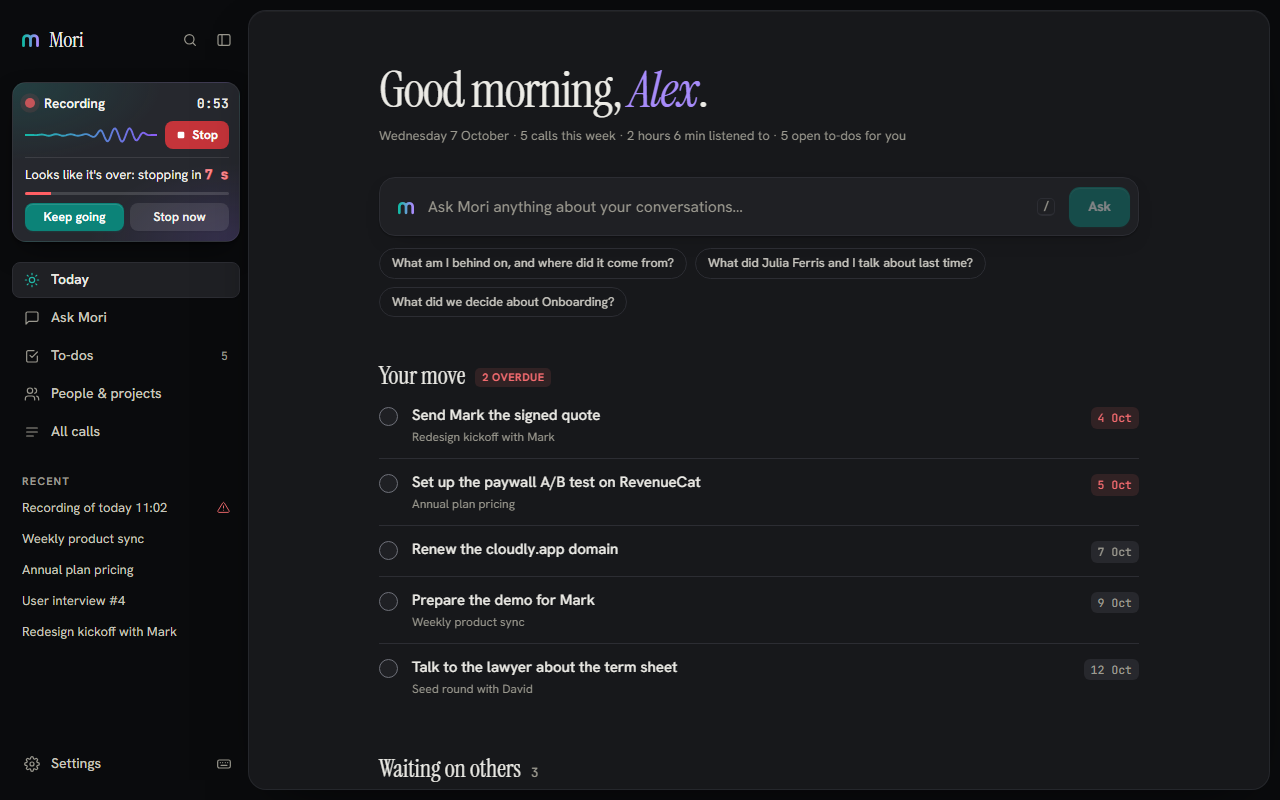
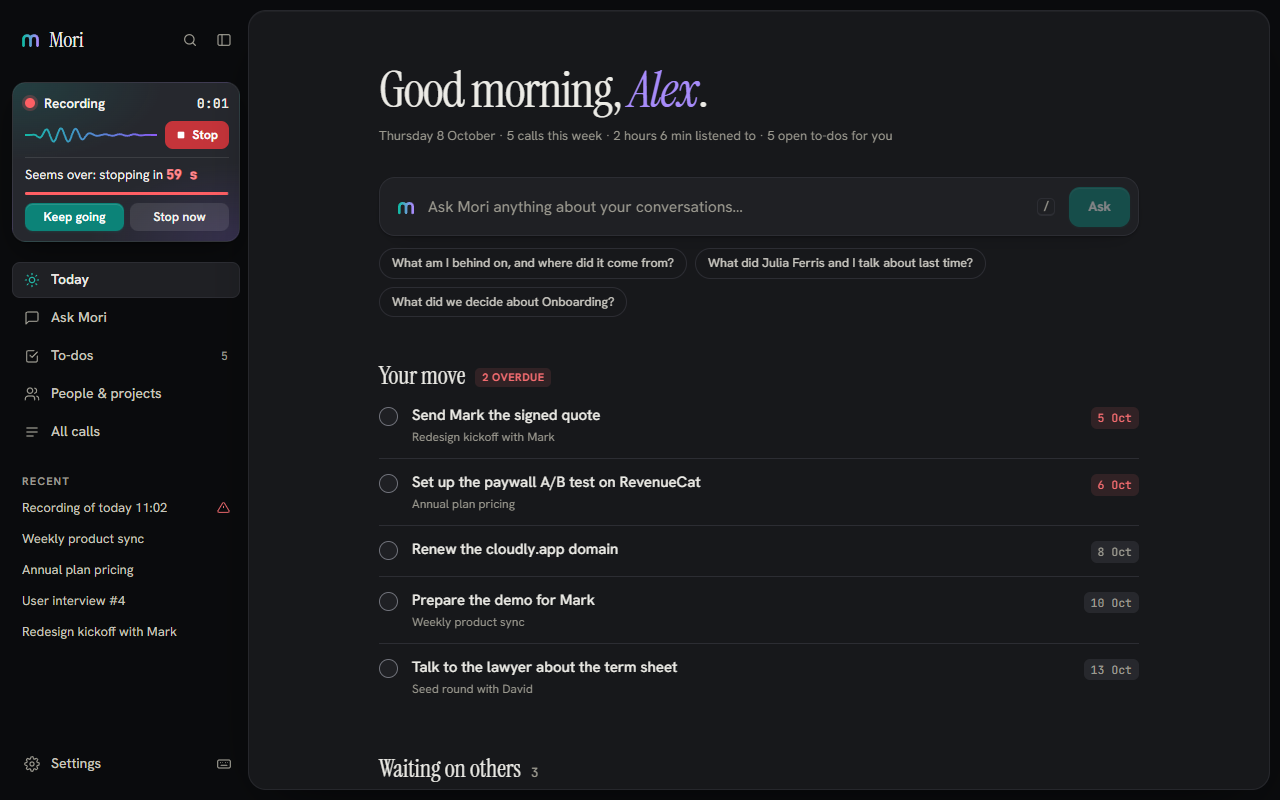
fix: the owner of a to-do reads "You" in English, and the docs say what CI proved on a Mac
The stored owner stays "Tu"; every place that shows it (a call's To-dos tab,
Today, the To-dos page and its edit field, the Markdown export) goes through
the same translation as speaker names. Typing "You" stores "Tu", names typed
by hand are left alone. checks.mjs fails when a view prints an owner raw.

README and docs/MACOS.md: macOS is proven on GitHub's cloud Mac (macOS 26,
Apple Silicon), from source and in the packaged app. The recording
screenshot is retaken from the preview bench with today's wording.

Changed region(s): [[0.2812, 0.1562, 0.7188, 0.1875], [0.0312, 0.1562, 0.1875, 0.25], [0.0, 0.125, 0.0312, 0.1562]]

diff --git a/app/src/views/TodosView.tsx b/app/src/views/TodosView.tsx
@@ -17,6 +17,7 @@ import type { OfferUndo } from "../ui/useUndo";
 import { isTyping, moveFocus } from "../ui/keys";
 import { dueLabel } from "../ui/format";
 import { t } from "../i18n";
+import { assigneeLabel, assigneeStored } from "../speakers-logic";
 import { useTabInk } from "../ui/useTabInk";
 import { IconCalendar, IconChevron, IconFile, IconPencil, IconPlus, IconSearch, IconTrash } from "../ui/icons";
 import "./TodosView.css";
@@ -109,6 +110,7 @@ export default function TodosView({
       return (
         t.text.toLowerCase().includes(q) ||
         (t.assignee ?? "").toLowerCase().includes(q) ||
+        assigneeLabel(t.assignee ?? "").toLowerCase().includes(q) ||
         t.source.title.toLowerCase().includes(q)
       );
     });
@@ -326,10 +328,10 @@ export default function TodosView({
                 autoFocus
                 aria-label={t("Di chi è")}
                 placeholder={t("di chi è")}
-                defaultValue={td.assignee ?? ""}
-                onBlur={(e) => patch(td, { assignee: e.target.value })}
+                defaultValue={td.assignee ? assigneeLabel(td.assignee) : ""}
+                onBlur={(e) => patch(td, { assignee: assigneeStored(e.target.value) })}
                 onKeyDown={(e) => {
-                  if (e.key === "Enter") patch(td, { assignee: (e.target as HTMLInputElement).value });
+                  if (e.key === "Enter") patch(td, { assignee: assigneeStored((e.target as HTMLInputElement).value) });
                   if (e.key === "Escape") {
                     e.stopPropagation();
                     setEditing(null);
@@ -343,7 +345,7 @@ export default function TodosView({
                 title={t("Clicca per cambiare a chi tocca")}
                 onClick={() => setEditing({ id: td.id, field: "who" })}
               >
-                {td.assignee ?? t("di chi?")}
+                {td.assignee ? assigneeLabel(td.assignee) : t("di chi?")}
               </button>
             )}
           </div>

diff --git a/app/src/views/call/CallView.tsx b/app/src/views/call/CallView.tsx
@@ -6,7 +6,7 @@ import type { ActionItem, Category, CategoryCount } from "../../db";
 import type { SessionJob } from "../../jobs";
 import { jobLabel, isWaitingNotice, noticeText, retrySession } from "../../jobs";
 import type { Entity } from "../people";
-import { applySpeakerMap, otherLabelsIn, relabelText, speakerLabel } from "../../speakers-logic";
+import { applySpeakerMap, assigneeLabel, otherLabelsIn, relabelText, speakerLabel } from "../../speakers-logic";
 import Markdown from "../../ui/Markdown";
 import Dragon from "../../ui/Mark";
 import Menu from "../../ui/Menu";
@@ -278,7 +278,7 @@ export default function CallView({
                       {i > 0 && ", "}
                       <button
                         className="person-link"
-                        title={t("Apri la scheda di {name}", { name: p.display_name })}
+                        title={t("Apri la scheda di {name}", { name: speakerLabel(p.display_name) })}
                         onClick={() => onOpenPersonByName(p.display_name)}
                       >
                         {speakerLabel(p.display_name)}
@@ -515,7 +515,7 @@ export default function CallView({
                             <svg width="12" height="12" viewBox="0 0 24 24" fill="none" stroke="currentColor" strokeWidth="3" strokeLinecap="round" strokeLinejoin="round" aria-hidden="true"><path d="M20 6 9 17l-5-5" /></svg>
                           </button>
                           <span className="action-text">{a.text}</span>
-                          {a.assignee && <span className="who-chip">{a.assignee}</span>}
+                          {a.assignee && <span className="who-chip">{assigneeLabel(a.assignee)}</span>}
                         </li>
                       ))}
                     </ul>

diff --git a/app/src/export-logic.ts b/app/src/export-logic.ts
@@ -2,6 +2,7 @@
 // as a human-readable copy outside Mori (DECISIONS.md, decision 3: export as the
 // anti lock-in backup). Pure: the DB reads live in followup.ts.
 import { locale, t } from "./i18n";
+import { assigneeLabel, speakerLabel } from "./speakers-logic";
 
 export type ExportCall = {
   title: string;
@@ -35,7 +36,7 @@ export function callToMarkdown(c: ExportCall): string {
   const meta: string[] = [];
   const day = fmtDay(c.startedAt);
   if (day) meta.push(day);
-  if (c.participants.length) meta.push(c.participants.join(", "));
+  if (c.participants.length) meta.push(c.participants.map(speakerLabel).join(", "));
   if (c.categories.length) meta.push(c.categories.map((x) => `#${x.replace(/\s+/g, "-")}`).join(" "));
   if (meta.length) out.push(`_${meta.join(" · ")}_`);
   if (c.private) out.push("> " + t("Call privata: letta solo da un modello locale."));
@@ -50,7 +51,7 @@ export function callToMarkdown(c: ExportCall): string {
   if (c.actions.length) {
     out.push("", "## " + t("Da fare"));
     for (const a of c.actions) {
-      const who = a.assignee ? ` — ${a.assignee}` : "";
+      const who = a.assignee ? ` — ${assigneeLabel(a.assignee)}` : "";
       const due = a.due ? ` (${t("entro {due}", { due: a.due })})` : "";
       out.push(`- [${a.done ? "x" : " "}] ${a.text}${who}${due}`);
     }

diff --git a/app/src/speakers-logic.ts b/app/src/speakers-logic.ts
@@ -50,6 +50,33 @@ export function speakerLabel(label: string): string {
   return label;
 }
 
+/** Who a to-do belongs to, as shown on screen. The stored value keeps the
+ *  recorder's "Tu" for the user; a list ("Tu, Sarah") is translated part by
+ *  part, and every name a person typed stays as it is. */
+export function assigneeLabel(assignee: string): string {
+  return assignee
+    .split(/([,/&])/)
+    .map((part) => {
+      const name = part.trim();
+      return name === "Tu" || name === "Interlocutore" ? part.replace(name, speakerLabel(name)) : part;
+    })
+    .join("");
+}
+
+/** The other way round, for what a person types in the "whose is it" field:
+ *  the word the interface shows for the user ("You") is stored as "Tu", so the
+ *  to-do stays theirs. Anything else is stored as typed. */
+export function assigneeStored(typed: string): string {
+  const me = t("Tu").toLowerCase();
+  return typed
+    .split(/([,/&])/)
+    .map((part) => {
+      const name = part.trim();
+      return name && name.toLowerCase() === me ? part.replace(name, "Tu") : part;
+    })
+    .join("");
+}
+
 export function speakerName(label: string, map: SpeakerMap): string {
   return map[label] ?? label;
 }

diff --git a/app/src/views/HomeView.tsx b/app/src/views/HomeView.tsx
@@ -15,6 +15,7 @@ import { isAutoTitle } from "../recording-logic";
 import { setTodoStatus, type Todo } from "./todos";
 import { DEFAULT_MY_NAMES } from "./todo-logic";
 import { t, tn } from "../i18n";
+import { assigneeLabel } from "../speakers-logic";
 import QuickKey from "./QuickKey";
 import type { ProviderConfig } from "../llm";
 
@@ -334,7 +335,7 @@ export default function HomeView({
                     const b = bucketOf(td.due);
                     return (
                       <li key={td.id} className="hl-row">
-                        <span className="hl-who">{(td.assignee ?? "").split(/[,/&]/)[0].trim()}</span>
+                        <span className="hl-who">{assigneeLabel((td.assignee ?? "").split(/[,/&]/)[0].trim())}</span>
                         <div className="hl-main">
                           <span className="hl-text">{td.text}</span>
                           {td.source.sessionId && (

diff --git a/app/src/App.tsx b/app/src/App.tsx
@@ -103,13 +103,8 @@ import ReadyToast, { type Ready } from "./views/ReadyToast";
 import { useRecorder } from "./views/recording/useRecorder";
 import { t, tn } from "./i18n";
 import { ensureSetup } from "./setup";
+import { speakerLabel } from "./speakers-logic";
 
-/** A recorder label as shown: the stored value stays Italian, the text follows the language. */
-function speakerLabel(label: string): string {
-  if (label === "Interlocutore") return t("Interlocutore");
-  if (label === "Tu") return t("Tu");
-  return label;
-}
 
 export default function App() {
   const [sessions, setSessions] = useState<Session[]>([]);

diff --git a/README.md b/README.md
@@ -30,7 +30,7 @@
 |---|---|
 | ![Ask Mori](docs/screenshots/ask-mori.png) | ![A call, its transcript with the two voices](docs/screenshots/call.png) |
 | ![A private call](docs/screenshots/private-call.png) | ![Settings, as a page](docs/screenshots/settings.png) |
-| ![Recording, and "it seems over": stop in 7 s](docs/screenshots/recording-dark.png) | ![⌘K finds what was said](docs/screenshots/cmdk-dark.png) |
+| ![Recording, and "Seems over": it stops by itself unless you keep going](docs/screenshots/recording-dark.png) | ![⌘K finds what was said](docs/screenshots/cmdk-dark.png) |
 
 <sub>Screenshots use invented data from the preview bench (`app/preview/fixtures.ts`). The design rules: [`docs/DESIGN.md`](docs/DESIGN.md).</sub>
 
@@ -39,7 +39,7 @@
 | Platform | Status |
 |---|---|
 | **Windows** | Works today. This is where Mori is used every day. |
-| **macOS** | In progress (Apple Silicon, macOS 14.2+). CI builds a `.dmg`, opens the app from it, and it records both sides of a played call; nobody has run it on a real Mac yet. The plan and where to help: [`docs/MACOS.md`](docs/MACOS.md). |
+| **macOS** | In progress (Apple Silicon, macOS 14.2+). Proven on GitHub's cloud Mac (macOS 26, Apple Silicon), from source and in the packaged app: CI builds a `.dmg`, opens the app from it, the app prepares its own Python, records both sides of a played call and transcribes it. Still to come: someone using it on a Mac on their desk. The plan and where to help: [`docs/MACOS.md`](docs/MACOS.md). |
 | Linux | The app builds and the checks run in CI. Untested beyond that. |
 
 ## Install
@@ -80,7 +80,7 @@ The model is any OpenAI‑compatible endpoint: Groq (free tier, no training on y
 
 ## Getting started (development)
 
-Prerequisites: Node 22, pnpm 10, Rust (stable), Python 3.11+. Mori targets **Windows** (system audio is captured through WASAPI loopback). The backend also builds on macOS and Linux; capturing the other side of a call there needs a loopback device and is untested.
+Prerequisites: Node 22, pnpm 10, Rust (stable), Python 3.11+. Mori is used every day on **Windows** (system audio is captured through WASAPI loopback). On **macOS** 14.2+ a small Swift helper captures it through Core Audio process taps: [`docs/MACOS.md`](docs/MACOS.md). The backend also builds on Linux; capturing the other side of a call there needs a loopback device and is untested.
 
 ```bash
 cd app

diff --git a/docs/MACOS.md b/docs/MACOS.md
@@ -6,9 +6,10 @@ for Apple Silicon ([workflow](../.github/workflows/macos-app.yml)). On every
 change a GitHub Mac takes the app out of that `.dmg` and opens it with no
 Python installed for it: Mori prepares its own, then a recording is started
 with `Cmd+Shift+R`, a known sentence is played, and Mori's "others" channel
-has to contain it. What is missing: a published release to download it from, a
-signature macOS trusts, and a person looking at it on a real Mac. This page is
-the plan. The research behind it, with sources for every claim, is in
+has to contain it. All of this is proven on GitHub's cloud Mac (macOS 26,
+Apple Silicon), from source and in the packaged app. What is missing: a
+published release to download it from, a signature macOS trusts, and a person
+using it on a Mac on their desk. This page is the plan. The research behind it, with sources for every claim, is in
 [`research/macos.md`](research/macos.md).
 
 The maintainer has no Mac. Milestones marked **CI** can be proven by GitHub
@@ -107,9 +108,9 @@ Seen in the same workflow, on the app taken from the `.dmg`:
   in the levels the interface reads, exits normally, and the microphone file
   is a valid recording of the whole time.
 
-Not seen: the floating pill, the transcript on the call's page (the
-screenshot was taken too early), the warning as a person reads it in the
-interface, and the setup on a slow or absent network (the strip offers "Try
+Not seen: the floating pill, the transcript as the call's page shows it (it is
+checked in the database, not on screen), the warning as a person reads it in
+the interface, and the setup on a slow or absent network (the strip offers "Try
 again"; its two states were looked at in the preview bench, not on a Mac).
 
 The macOS-only bundle settings live in
